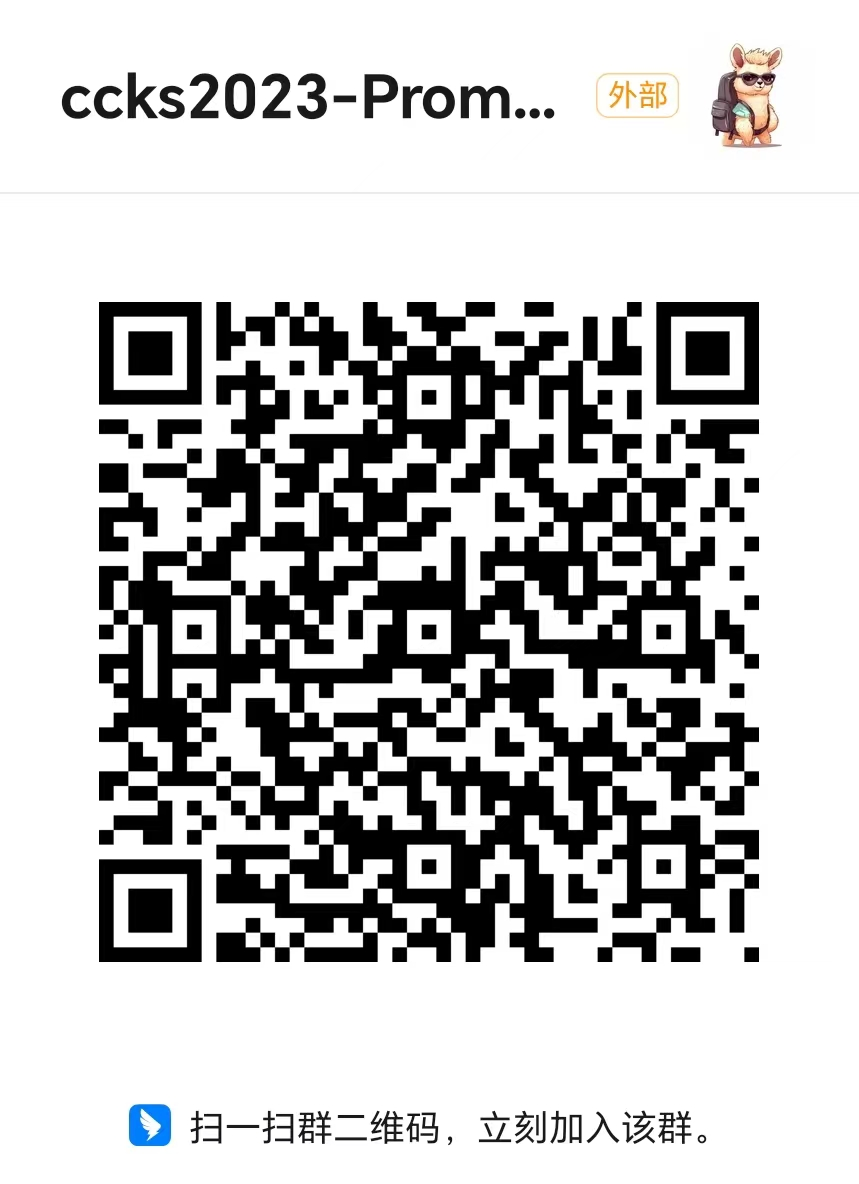
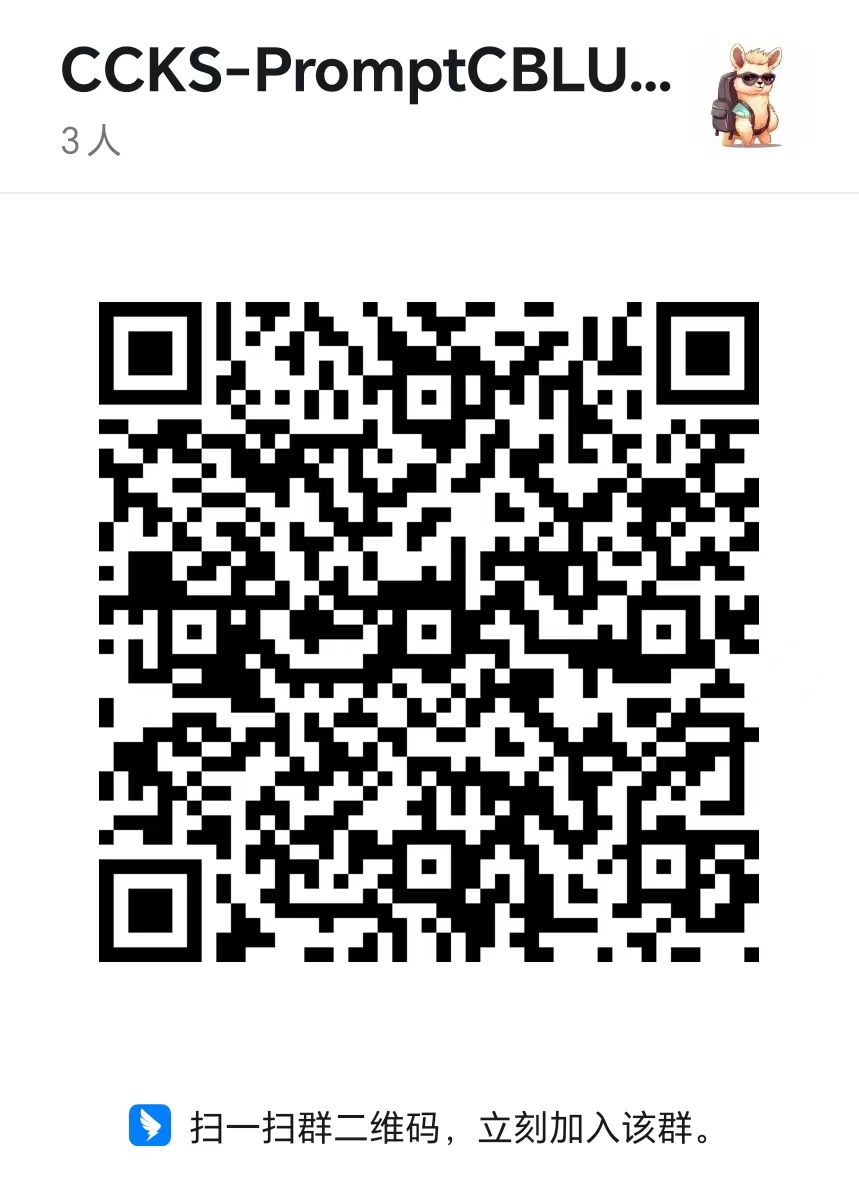
2023-05-19: modify data proc for eval; change dingding group qrcode;

diff --git a/src/ft_chatglm_lora/main.py b/src/ft_chatglm_lora/main.py
@@ -106,7 +106,7 @@ def main():
         extension = data_args.test_file.split(".")[-1]
 
     raw_datasets = load_dataset(
-        extension,
+        "json",
         data_files=data_files,
         cache_dir=model_args.cache_dir,
         use_auth_token=True if model_args.use_auth_token else None,
@@ -157,8 +157,8 @@ def main():
         model = get_peft_model(model, peft_config)
     model.print_trainable_parameters()
 
-    for n, p in model.named_parameters():
-        print(n, p.requires_grad, p.numel())
+    # for n, p in model.named_parameters():
+    #     print(n, p.requires_grad, p.numel())
 
     prefix = data_args.source_prefix if data_args.source_prefix is not None else ""
 
@@ -185,7 +185,12 @@ def main():
     def preprocess_function_eval(examples):
         inputs, targets = [], []
         for i in range(len(examples[prompt_column])):
-            if examples[prompt_column][i] and examples[response_column][i]:
+            if not examples[response_column][i]:
+                targets.append("filled in !")
+            else:
+                targets.append(examples[response_column][i])
+
+            if examples[prompt_column][i]:
                 query = examples[prompt_column][i]
                 if history_column is None or len(examples[history_column][i]) == 0:
                     prompt = query
@@ -196,7 +201,6 @@ def main():
                         prompt += "[Round {}]\n问：{}\n答：{}\n".format(turn_idx, old_query, response)
                     prompt += "[Round {}]\n问：{}\n答：".format(len(history), query)
                 inputs.append(prompt)
-                targets.append(examples[response_column][i])
 
         inputs = [prefix + inp for inp in inputs]
         model_inputs = tokenizer(inputs,
@@ -264,10 +268,10 @@ def main():
         return model_inputs
     
     def print_dataset_example(example):
-        print("input_ids",example["input_ids"])
-        print("inputs", tokenizer.decode(example["input_ids"]))
-        print("label_ids", example["labels"])
-        print("labels", tokenizer.decode(example["labels"]))
+        print("input_ids: ",example["input_ids"])
+        print("inputs: ", tokenizer.decode(example["input_ids"]))
+        print("label_ids: ", example["labels"])
+        print("labels: ", tokenizer.decode(example["labels"]))
 
     if training_args.do_train:
         if "train" not in raw_datasets:
